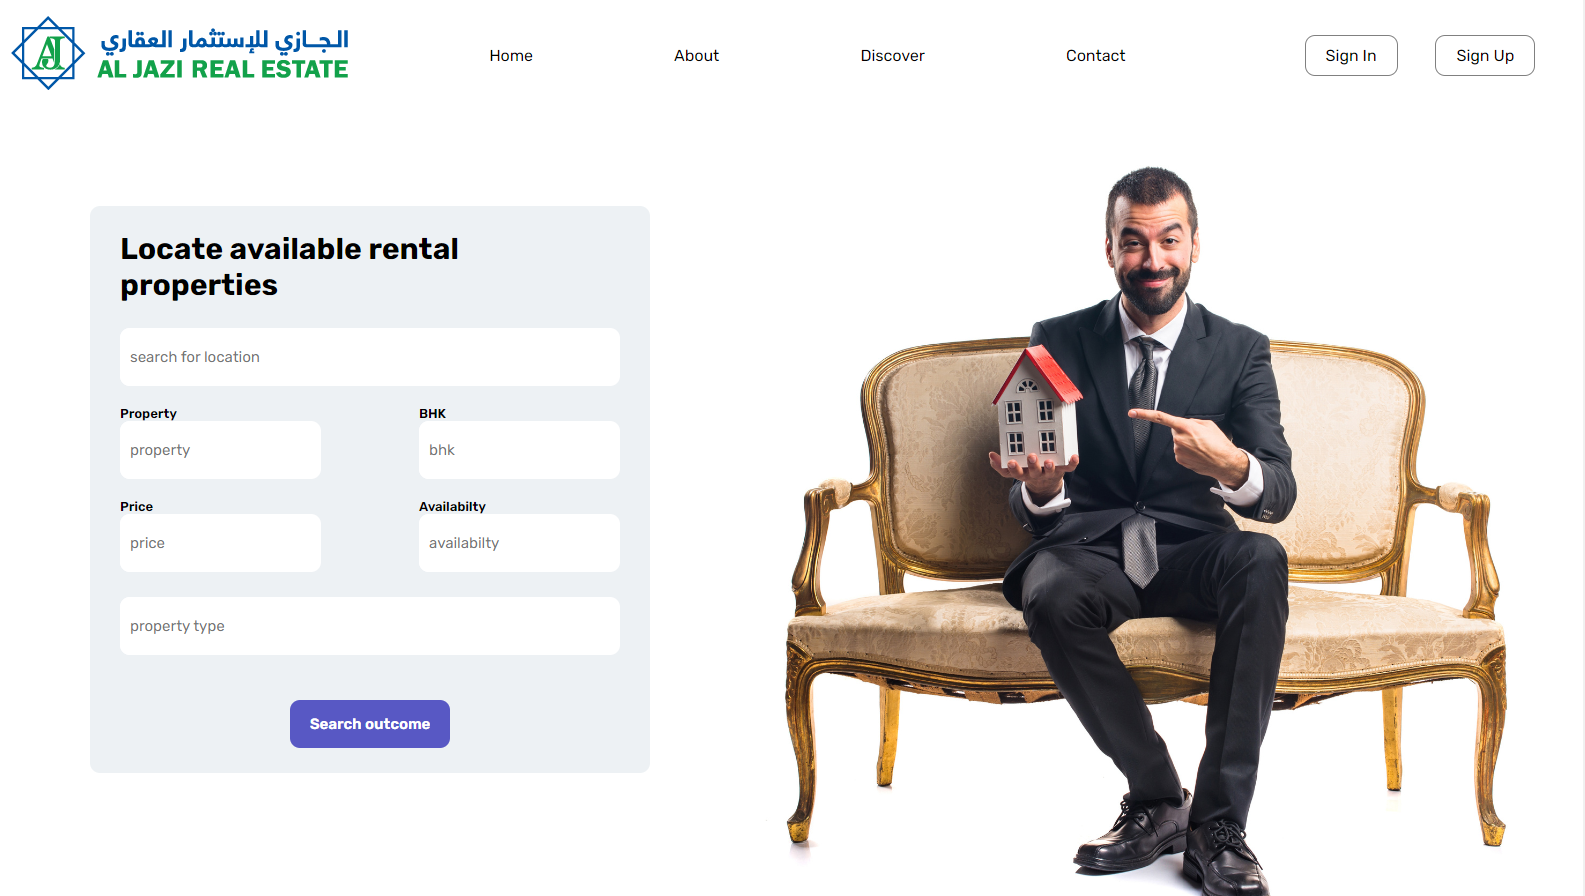
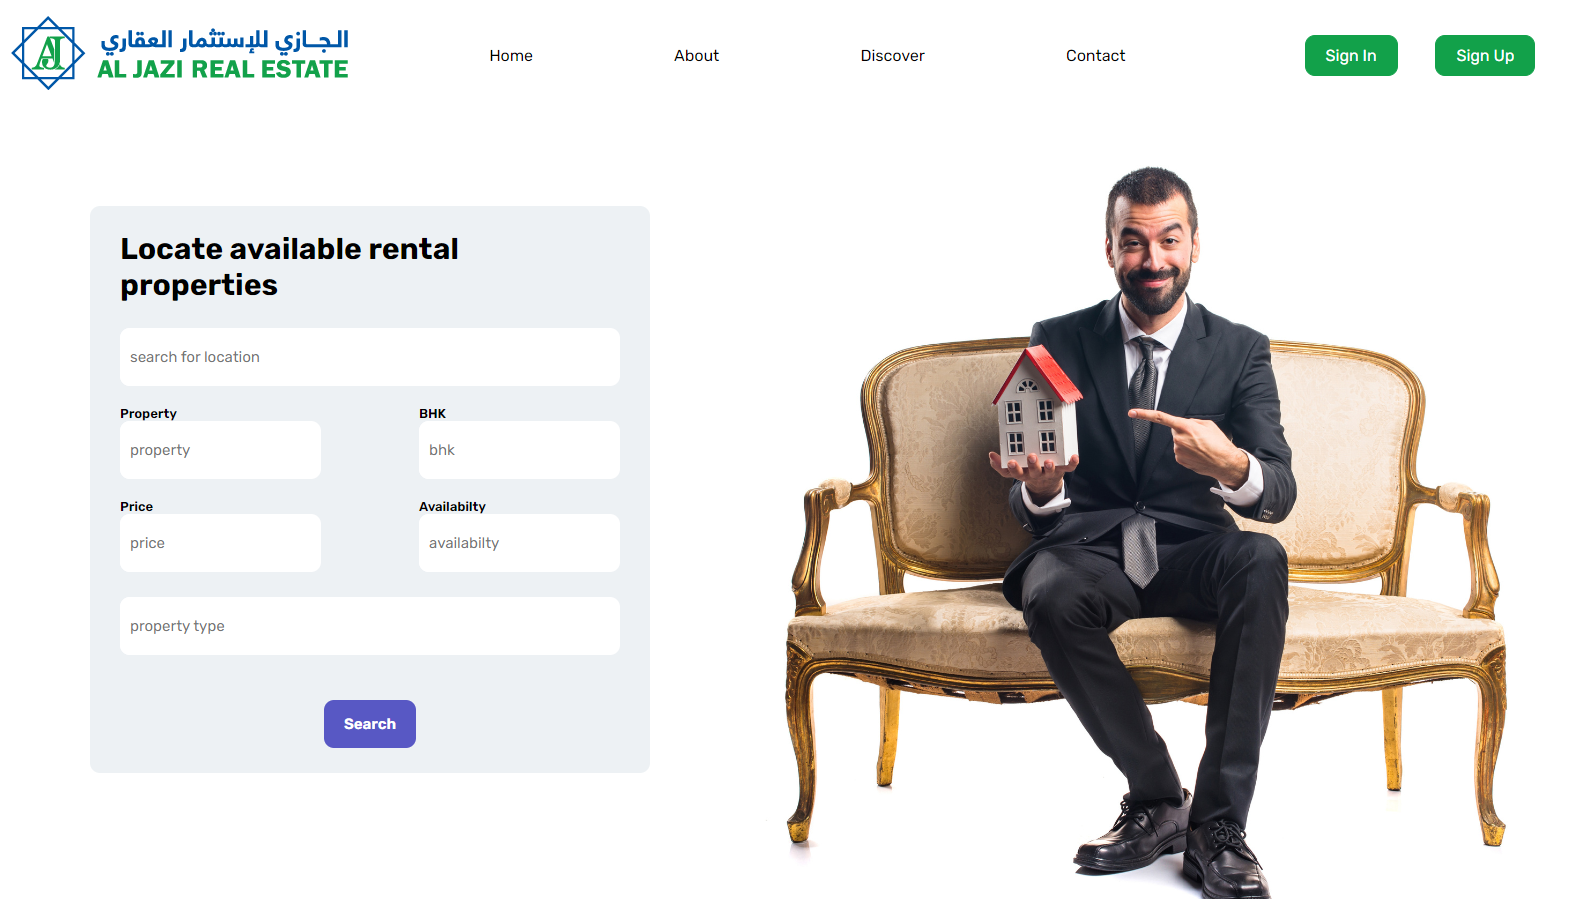
fi

diff --git a/src/components/cus.js b/src/components/cus.js
@@ -9,11 +9,22 @@ import WifiProtectedSetupIcon from "@mui/icons-material/WifiProtectedSetup";
 import PeopleAltIcon from "@mui/icons-material/PeopleAlt";
 import CheckCircleIcon from "@mui/icons-material/CheckCircle";
 import KeyboardDoubleArrowRightIcon from "@mui/icons-material/KeyboardDoubleArrowRight";
-
+import FacebookIcon from "@mui/icons-material/Facebook";
+import XIcon from "@mui/icons-material/X";
+import InstagramIcon from "@mui/icons-material/Instagram";
+import LinkedInIcon from "@mui/icons-material/LinkedIn";
 export default function Cus() {
   const navigate = useNavigate();
   return (
     <div className="cus">
+      <div className="firstText">
+        Experience Excellence: Our Legacy of Success
+      </div>
+      <div className="secondText">
+        With a decade of unwavering commitment, we've earned our reputation for
+        unparalleled service. Trust our seasoned expertise to exceed your real
+        estate expectations.
+      </div>
       <div className="e">
         <div className="bodyB">
           <div className="customerDiv">
@@ -40,7 +51,49 @@ export default function Cus() {
         </div>
       </div>
       <div className="foot">
-        <div className=""></div>
+        <div className="footA">
+          <div className="partA">
+            <div className="title">AL JAZI REAL ESTATE</div>
+            <div className="part">Doha, Qatar</div>
+            <div className="part">+1 246-345-0695</div>
+            <div className="part">Tel No. 40320666</div>
+            <div className="part">Mob No. 50008191</div>
+            <div className="part">info@alijazi.com</div>
+            <div className="part">www.facebook.com/AJQatar</div>
+          </div>
+          <div className="partB">
+            <div className="title">Navigations</div>
+            <div className="part">About Us</div>
+            <div className="part">FAQs Page</div>
+            <div className="part">Checkout</div>
+            <div className="part">Contact</div>
+            <div className="part">Blog</div>
+          </div>
+          <div className="partC">
+            <div className="title">Highlights</div>
+            <div className="part">Apartments</div>
+            <div className="part">Houses</div>
+            <div className="part">Restaurants</div>
+            <div className="part">Villas</div>
+            <div className="part">Compounds</div>
+          </div>
+          <div className="partD">
+            <div className="title">Account</div>
+            <div className="part">Profile</div>
+            <div className="part">Property</div>
+            <div className="part">Bookmarks</div>
+            <div className="part">Cart</div>
+          </div>
+        </div>
+        <div className="footB">
+          <div className="atext">&copy; 2024 Al Jazi.All Rights Reserved</div>
+          <div className="aicons">
+            <FacebookIcon id="sicon" />
+            <InstagramIcon id="sicon" />
+            <XIcon id="sicon" />
+            <LinkedInIcon id="sicon" />
+          </div>
+        </div>
       </div>
     </div>
   );

diff --git a/src/scss/buildingPage.scss b/src/scss/buildingPage.scss
@@ -409,6 +409,9 @@
 .fi {
   width: 100% !important ;
   height: 100%;
+  margin: 0px;
+  padding: 0px;
+  margin-top: -1%;
 }
 .cus {
   font-family: "Rubik", sans-serif;
@@ -421,6 +424,7 @@
     justify-content: space-between;
     align-items: center;
     padding: 0px 20%;
+    margin-bottom: 3%;
   }
   .numDiv {
     font-size: 30px;
@@ -438,5 +442,57 @@
     display: flex;
     justify-content: center;
     align-items: center;
+  }
+  .foot {
+    border-top: solid 1px lightgray;
+    padding: 20px 80px;
+    margin-top: 3%;
+  }
+  .footA {
+    margin-top: 1%;
+    display: flex;
+    justify-content: space-between;
+    align-items: flex-start;
+  }
+  .footB {
+    margin-top: 5%;
+    display: flex;
+    justify-content: space-between;
+    align-items: center;
+    font-size: 13px;
+    color: gray;
+  }
+  .title {
+    font-weight: 900;
+    font-size: 15px;
+    margin-bottom: 10px;
+  }
+  .part {
+    font-size: 13px;
+    color: gray;
+    margin-top: 10px;
+  }
+  .aicons {
+    width: 300px;
+    text-align: end;
+  }
+  #sicon {
+    font-size: 20px;
+    margin-left: 2%;
+  }
+
+  .firstText {
+    font-weight: bolder;
+    font-size: 30px;
+    text-align: center;
+    margin-bottom: 10px;
+  }
+  .secondText {
+    padding: 0% 30%;
+    font-size: 15px;
+    color: gray;
+    text-align: center;
+    font-weight: 600;
+    margin-bottom: 3%;
   }
 }

diff --git a/src/components/nextsumma.js b/src/components/nextsumma.js
@@ -8,7 +8,7 @@ import AirlineSeatIndividualSuiteIcon from "@mui/icons-material/AirlineSeatIndiv
 import SearchIcon from "@mui/icons-material/Search";
 import { useNavigate } from "react-router-dom";
 
-export default function NxtDem() {
+export default function NxtDem0() {
   const [status, setStatus] = useState("buy");
   const navigate = useNavigate();
   useEffect(() => {
@@ -86,7 +86,7 @@ export default function NxtDem() {
             <input type="text" placeholder="property type" className="inA" />
           </div>
           <div className="subText">
-            <div className="sub">Search outcome</div>
+            <div className="sub">Search</div>
           </div>
         </div>
       </div>

diff --git a/src/components/fileArea.js b/src/components/fileArea.js
@@ -8,6 +8,7 @@ import DemoPage from "./summa";
 import NxtDem from "./tlm";
 import Final from "./final";
 import Cus from "./cus";
+import NxtDemo from "./nextsumma";
 
 export default function FileArea() {
   return (
@@ -15,8 +16,9 @@ export default function FileArea() {
       <Routes>
         {" "}
         {/* <Route path="/detail" element={<DetailPage />} /> */}
-        <Route path="/" element={<Cus />} />
-        <Route path="/v" element={<Final />} />
+        {/* <Route path="/" element={<NxtDem />} /> */}
+        <Route path="/v" element={<NxtDemo />} />
+        <Route path="/" element={<Final />} />
       </Routes>
     </div>
   );

diff --git a/src/components/final.js b/src/components/final.js
@@ -2,6 +2,7 @@ import React from "react";
 import p1 from "../images/p1.png";
 import p2 from "../images/p2.png";
 import p3 from "../images/p3.png";
+import p4 from "../images/p4.png";
 import "../scss/buildingPage.scss";
 
 export default function Final() {
@@ -10,6 +11,7 @@ export default function Final() {
       <img src={p1} alt="w" className="fi" />
       <img src={p2} alt="w" className="fi" />
       <img src={p3} alt="u" className="fi" />
+      <img src={p4} alt="u" className="fi" />
     </div>
   );
 }

diff --git a/src/scss/homePage.scss b/src/scss/homePage.scss
@@ -52,8 +52,8 @@
     border: solid 1px gray;
     cursor: pointer;
   }
-  .signInDiv:hover,
-  .signUpDiv:hover {
+  .signInDiv,
+  .signUpDiv {
     background-color: #12a14a;
     color: white;
     border: solid 1px #12a14a;
@@ -291,8 +291,8 @@
       border: solid 1px gray;
       cursor: pointer;
     }
-    .signInDiv:hover,
-    .signUpDiv:hover {
+    .signInDiv,
+    .signUpDiv {
       background-color: #12a14a;
       color: white;
       border: solid 1px #12a14a;
